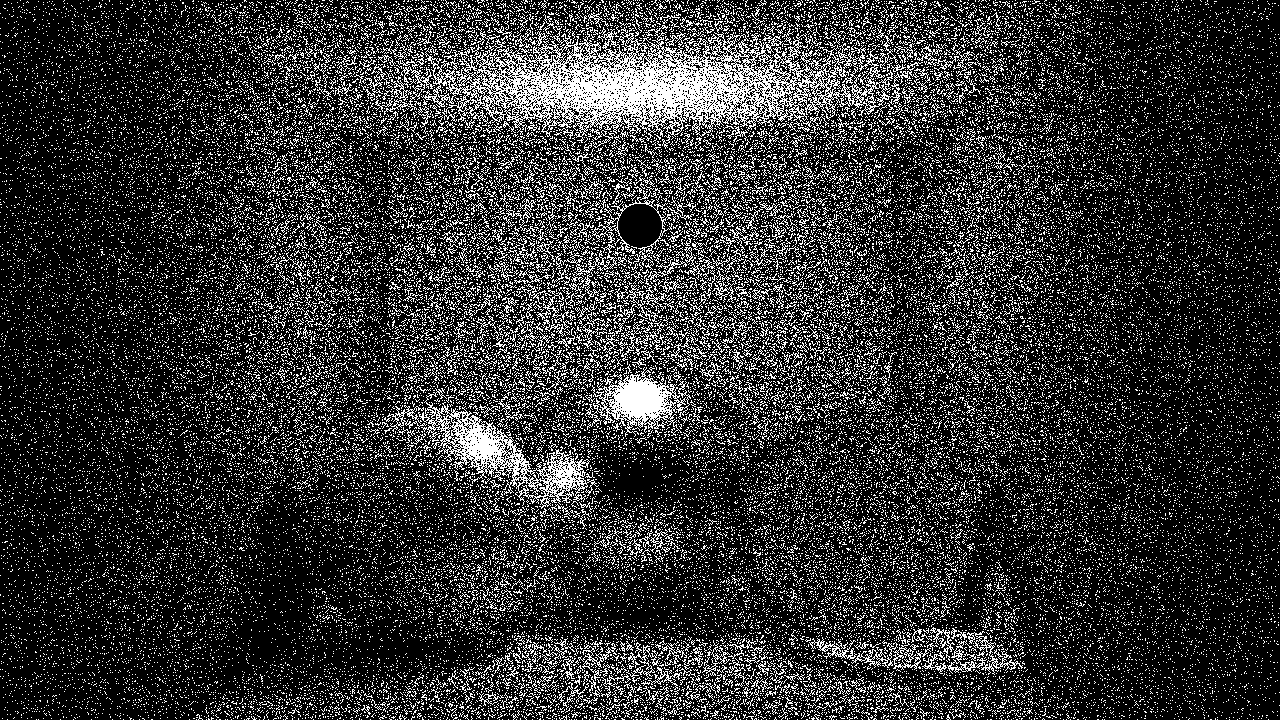
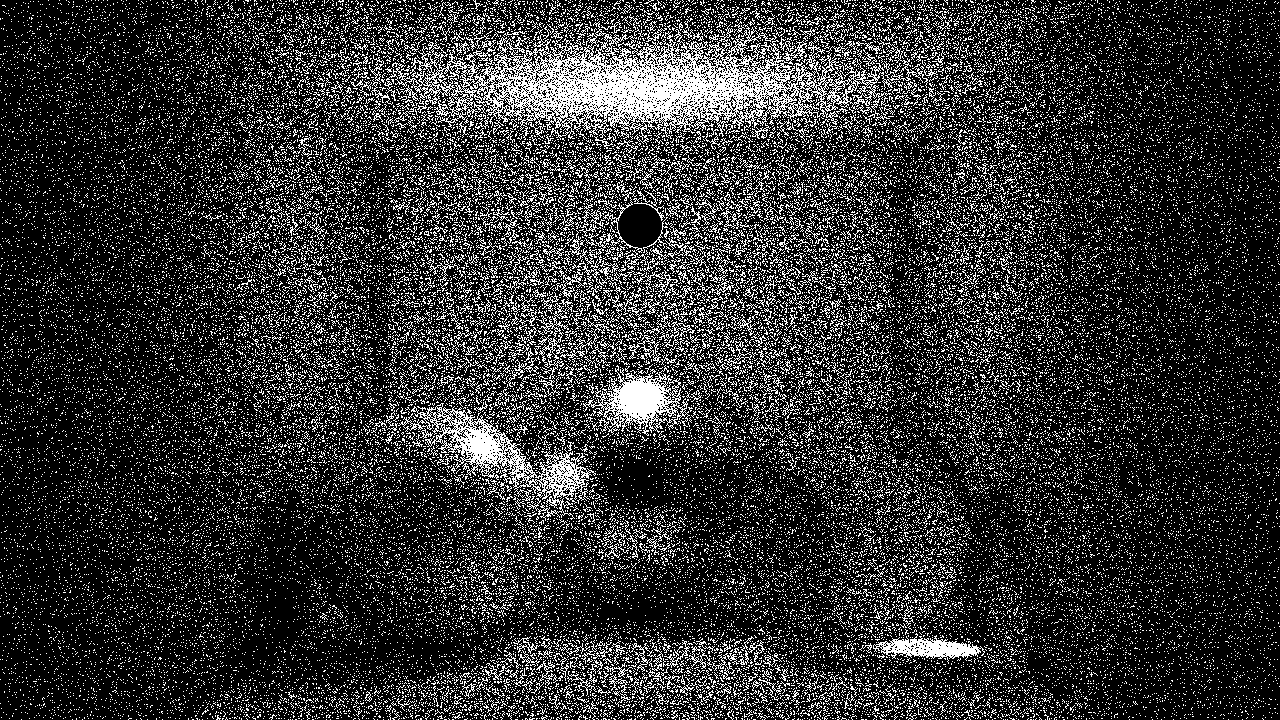
Fixed refraction prob

Changed region(s): [[0.0, 0.0, 1.0, 1.0]]

diff --git a/src/materials.h b/src/materials.h
@@ -277,21 +277,46 @@ public:
         if (randomNum < diffuseProb + specularProb + transmissiveProb)
         {
             si.lobe = DirSampler::Lobe::TRANSMISSION;
-            const Vec3f N{ sInfo.IsFront() ? sInfo.N() : -sInfo.N() };
-            const float vDotN{ sInfo.V().Dot(N) };
-            const float eta{ vDotN > 0.0f ? 1.0f / ior : ior };
 
-            const float k{ 1.0f - eta * eta * (1.0f - vDotN * vDotN) };
+            Vec3f N{ sInfo.N() };
+            float etaI{ 1.0f };
+            float etaT{ ior };
+            const float vDotN{ sInfo.V().Dot(N) };
+            if (vDotN < 0.0f)
+            {
+                N = -N;
+                std::swap(etaI, etaT);
+            }
+
+            const float eta{ etaI / etaT };
+
+            const float alpha{ glossiness.GetValue() };
+            const float phi{ 2.0f * Pi<float>() * sInfo.RandomFloat() };
+            const float cosTheta{ powf(1.0f - sInfo.RandomFloat(), 1.0f / (alpha + 1.0f)) };
+            const float sinTheta{ sqrtf(1.0f - cosTheta * cosTheta) };
+            const float x{ sinTheta * cosf(phi) };
+            const float y{ sinTheta * sinf(phi) };
+            Vec3f u, v;
+            N.GetOrthonormals(u, v);
+            const Vec3f h{ (x * u) + (y * v) + (cosTheta * N) };
+            const float vDotH{ sInfo.V().Dot(h) };
+
+            const float k{ 1.0f - eta * eta * (1.0f - vDotH * vDotH) };
             if (k < 0.0f) // TODO: Add total internal reflections here
                 return false;
 
             const float sqrtK{ sqrtf(k) };
-            dir = (N * (eta * vDotN - sqrtK)) - (sInfo.V() * eta);
-            si.prob = 1.0f;
-
-            const float absCosTheta{ std::abs(sInfo.N().Dot(dir)) };
+            dir = (h * (eta * vDotH - sqrtK)) - (sInfo.V() * eta);
+            const float absCosTheta{ std::abs(N.Dot(dir)) };
             if (absCosTheta < 1e-5f) return false;
 
+            const float dirDotH{ dir.Dot(h) };
+
+            const float jacobianDenomRoot{ (etaI * vDotH) + (etaT * dirDotH) };
+            const float jacobian{ (etaT * etaT * std::abs(dirDotH)) / (jacobianDenomRoot * jacobianDenomRoot) };
+            const float pdfH{ ((alpha + 1) / (2.0f * Pi<float>())) * powf(cosTheta, alpha) };
+
+            si.prob = pdfH / jacobian;
             si.mult = (transmissiveColor / transmissiveProb) / absCosTheta;
 
             return true;
